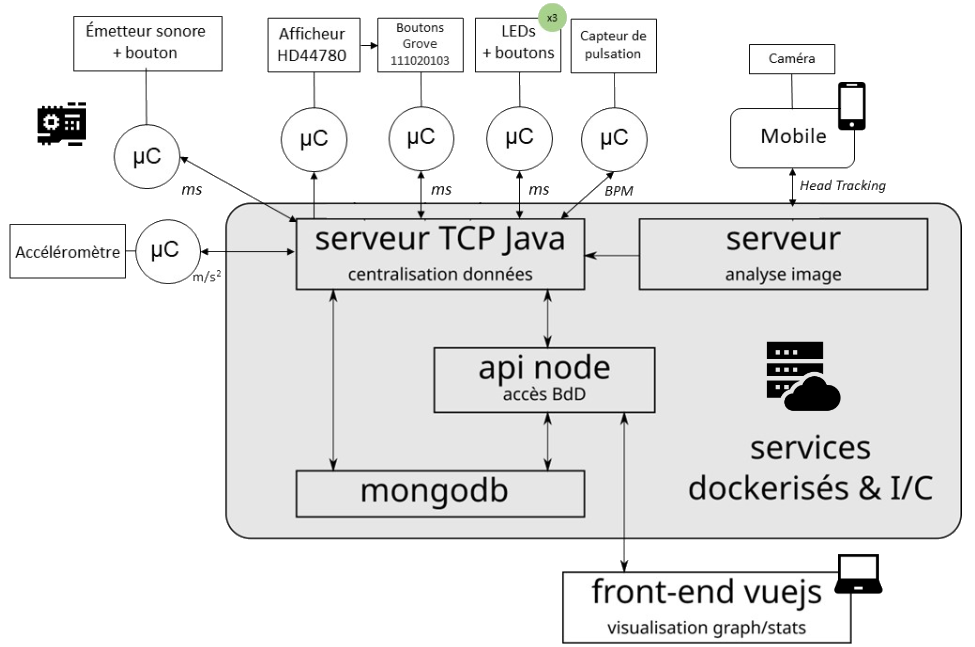
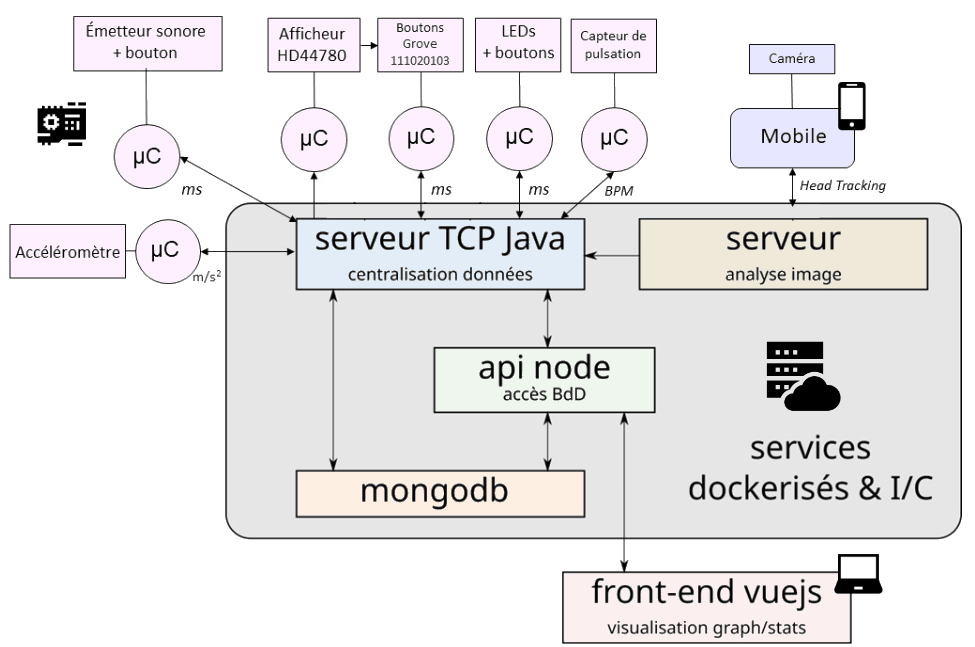
doc: update data

Changed region(s): [[0.5846, 0.9892, 0.8615, 1.0], [0.3692, 0.7419, 0.5231, 0.8037], [0.5538, 0.0, 0.5846, 0.0618]]

diff --git a/portfolio/src/variables_fr.js b/portfolio/src/variables_fr.js
@@ -2,6 +2,7 @@ const sae_101_102_partie_de_jeu = require("../files/sae_101_102/partie_de_jeu.pn
 const sae_s4_mcd = require("../files/sae_stage_s4/MCD.png");
 const sae_s4_principe_selection_apres = require("../files/sae_stage_s4/principe_selection_apres.png");
 const archi_sae = require("../files/sae_s5/archi_sae.png");
+const graphs_frontend = require("../files/sae_s5/graphs_frontend.png");
 
 
 /* ***************************************************************** common ***************************************************************** */
@@ -84,8 +85,9 @@ const technos = {
     // Database & Query Languages
     graphql: { name: "GraphQL", class: "bg-info" },
     minio: { name: "Minio", class: "bg-info" },
+    mongo: { name: "MongoDB", class: "bg-info" },
     postgresql: { name: "PostgreSQL", class: "bg-info" },
-    sequelize: {name: "Sequelize", class: "bg-info" },
+    sequelize: { name: "Sequelize", class: "bg-info" },
     sql: { name: "SQL", class: "bg-info" },
     hasura: { name: "Hasura", class: "bg-info" },
 
@@ -137,7 +139,7 @@ const projects = {
         title: `Stage (2023)`,
         category: categories.professional,
         instructions: {
-            title: `Consignes`,
+            title: `Présentation`,
             text: `Au cours de ma deuxième année en BUT Informatique, j'ai effectué un stage de trois mois (avril - juin 2023) au sein de <span style='color:red;'><strong>Natural Solutions</strong></span>, une entreprise du secteur numérique basée à Marseille.\n
             Chaque mois, l'entreprise doit établir des devis et des factures pour ses clients. Pour simplifier ce processus, un stagiaire avait été recruté en 2021 pour mettre en place l’Outil Facturation, réalisé en <span style='color:blue'><strong>${technos.js.name}</strong></span>, <span style='color:blue'><strong>${technos.node_js.name}</strong></span> et <span style='color:blue'><strong>${technos.react_js.name}</strong></span>.\n
             Ma mission était de corriger les problèmes existants, d'améliorer les fonctionnalités déjà en place et d'en ajouter de nouvelles. Parmi les tâches qui m'ont été confiées, figuraient la mise en place de la base de données (BDD), la modification du principe de sélection des projets et la génération de documents.\n
@@ -150,68 +152,82 @@ const projects = {
         },
         implementation: {
             title: `Mise en œuvre`,
-            text: `<h4 style='color:black;'><strong>Base de données</strong></h4>
+            section_1: `<h4 style='color:black;'><strong>Base de données</strong></h4>
             Avant mon arrivée, les données de l'Outil Facturation étaient conservées dans un <span style='color:blue'><strong>fichier JSON</strong></span>. Pour les migrer vers une base de données, j'ai réalisé les étapes suivantes :
-            <ul><li>création d'un MCD (Modèle Conceptuel de Données) ;</li><li>utilisation du SGBD (Système de Gestion de Bases de Données) <span style='color:red;'><strong>${technos.postgresql.name}</strong></span> ;</li><li>emploi de l'ORM <span style='color:red;'><strong>${technos.sequelize.name}</strong></span> pour simplifier l'interaction avec la base de données ;</li><li>connexion de la base de données avec le backend via des variables d'environnement. Lors de cette étape, j'ai dû adapter l'intégralité du code de l'application ;</li><li>enrichissement de la base de données en développant une fonction pour <span style='color:green;'><strong>insérer les données</strong></span>, élément par élément, à partir du fichier JSON où elles étaient précédemment stockées.</li></ul>
-            <h4 style='color:black;'><strong>Modification du principe de sélection des projets</strong></h4>
-            Lorsque l'utilisateur souhaitait modifier un projet, il devait connaître son nom exact. Il a été décidé que le nouveau système de recherche de projet utiliserait <span style='color:blue'><strong>deux listes déroulantes</strong></span>, permettant de sélectionner ou désélectionner chaque projet. L'une des listes afficherait tous les projets développés pour RENECO (le principal client de Natural Solutions), tandis que l'autre inclurait tous les autres projets.\n
-            Pour accomplir cette tâche, j’ai dû :
-            <ul><li><span style='color:red'><strong>interroger une API externe</strong></span> pour obtenir la liste complète des projets ;</li><li>identifier si chaque projet était développé pour RENECO ou non ;</li><li>ajuster l'interface graphique en conséquence.</li></ul>
-            <h4 style='color:black;'><strong>Génération de documents</strong></h4>
-            Cette mission consistait à créer un rapport sur les activités de support réalisées pendant une période donnée. Ces activités concernent les tâches effectuées par l'équipe de développement après la livraison du produit (service après-vente).\n
-            Pour gérer ces activités, Natural Solutions utilise <span style='color:blue;'><strong>Zendesk</strong></span>, une plateforme de gestion de la relation client. Il était donc crucial d'interroger l'API de Zendesk pour générer le rapport.\n
-            J'ai d'abord établi une connexion avec l'API pour obtenir les données pertinentes, que j'ai ensuite sélectionnées, triées par ordre chronologique et formatées pour le rapport.\n
-            Le code permettant le téléchargement du fichier était déjà présent, mais j'ai dû l'adapter pour générer correctement les documents. En complément, j'ai créé un <span style='color:green'><strong>modèle Word</strong></span> afin de structurer et d'organiser automatiquement le contenu du rapport lors de sa génération.`,
-            images: [
+            <ul><li>création d'un MCD (Modèle Conceptuel de Données) ;</li><li>utilisation du SGBD (Système de Gestion de Bases de Données) <span style='color:red;'><strong>${technos.postgresql.name}</strong></span> ;</li><li>emploi de l'ORM <span style='color:red;'><strong>${technos.sequelize.name}</strong></span> pour simplifier l'interaction avec la base de données ;</li><li>connexion de la base de données avec le backend via des variables d'environnement. Lors de cette étape, j'ai dû adapter l'intégralité du code de l'application ;</li><li>enrichissement de la base de données en développant une fonction pour <span style='color:green;'><strong>insérer les données</strong></span>, élément par élément, à partir du fichier JSON où elles étaient précédemment stockées.</li></ul>`,
+            images_1: [
                 {
                     path: sae_s4_mcd,
                     legend: `Figure 1 : MCD de l'application`
-                }, {
-                    path: sae_s4_principe_selection_apres,
-                    legend: `Figure 2 : MCD de l'application`
                 }
-            ]
+            ],
+            section_2: `\n<h4 style='color:black;'><strong>Modification du principe de sélection des projets</strong></h4>
+            Lorsque l'utilisateur souhaitait modifier un projet, il devait connaître son nom exact. Il a été décidé que le nouveau système de recherche de projet utiliserait <span style='color:blue'><strong>deux listes déroulantes</strong></span>, permettant de sélectionner ou désélectionner chaque projet. L'une des listes afficherait tous les projets développés pour RENECO (le principal client de Natural Solutions), tandis que l'autre inclurait tous les autres projets.\n
+            Pour accomplir cette tâche, j’ai dû :
+            <ul><li><span style='color:red'><strong>interroger une API externe</strong></span> pour obtenir la liste complète des projets ;</li><li>identifier si chaque projet était développé pour RENECO ou non ;</li><li>ajuster l'interface graphique en conséquence.</li></ul>`,
+            images_2: [
+                {
+                    path: sae_s4_principe_selection_apres,
+                    legend: `Figure 2 : Principe de sélection des projets`
+                }
+            ],
+            section_3: `\n<h4 style='color:black;'><strong>Génération de documents</strong></h4>
+            Cette mission consistait à créer un rapport sur les activités de support réalisées pendant une période donnée. Ces activités concernent les tâches effectuées par l'équipe de développement après la livraison du produit (service après-vente).\n
+            Pour gérer ces activités, Natural Solutions utilise <span style='color:blue;'><strong>Zendesk</strong></span>, une plateforme de gestion de la relation client. Il était donc crucial d'interroger l'API de Zendesk pour générer le rapport.\n
+            J'ai d'abord établi une connexion avec l'API pour obtenir les données pertinentes, que j'ai ensuite sélectionnées, triées par ordre chronologique et formatées pour le rapport.\n
+            Le code permettant le téléchargement du fichier était déjà présent, mais j'ai dû l'adapter pour générer correctement les documents. En complément, j'ai créé un <span style='color:green'><strong>modèle Word</strong></span> afin de structurer et d'organiser automatiquement le contenu du rapport lors de sa génération.`
         },
         result: {
             title: `Résultat de la SAÉ`,
             text: `J'ai beaucoup aimé cette première expérience professionnelle, c'est en grande partie grâce à mes collègues qui se sont montrés très attentifs.\n
             De plus, j'ai pu m'améliorer en <span style='color:red'><strong>gestion de projet</strong></span> grâce à l'utilisation quotidienne de la méthodologie SCRUM. J'ai aussi développé ma capacité à me documenter et à chercher des informations par moi-même ainsi que ma capacité à utiliser des outils tels que GitLab.\n
             Vous pouvez consulter le diaporama de ma soutenance <a href='https://docs.google.com/presentation/d/1uueQqS5IAyxeuxPOwv-2YE4rRnxuOs72wY5auPL-VPI/edit?usp=sharing' target='_blank'>ci-joint</a>.`,
-            files: {
-                file_1: {
-
-                },
-                file_2: {
-
-                }
-            }
         },
         technologies: [technos.js, technos.node_js, technos.react_js, technos.postgresql, technos.gitlab]
     },
     sae_s5: {
-        title: `Présentation de la SAÉ`,
+        title: `SAÉ 501-601`,
         category: categories.academic,
         instructions: {
             title: `Objectif`,
-            text: `Cette SAÉ, réalisée par <span style='color:red;'><strong>cinq étudiants</strong></span> en troisième année de BUT Informatique, a pour objectif de développer une application multi-architecture en utilisant des micro-contrôleurs et des objets connectés pour collecter des données, les traiter et les visualiser.\nMon groupe et moi avons choisi de créer une application de tests de réflexe destinée à des scientifiques.`
+            text: `Dans le cadre de ma troisième année de BUT informatique, j'ai travaillé sur ce projet en collaboration avec quatre autres étudiants. Notre mission consistait à concevoir une <span style='color: red'><strong>application multi-architecture</strong></span> intégrant des <span style='color:green'><strong>microcontrôleurs</strong></span> et des <span style='color:green'><strong>objets connectés</strong></span>, afin de collecter, traiter et visualiser des données.\n
+            Nous avions la liberté de définir une situation d'application pour mettre en œuvre ces consignes, et notre équipe a opté pour le développement d'une application destinée aux scientifiques, permettant de réaliser des tests de réflexe.`
         },
         architecture: {
-            title: `Architecture`,
-            text: `L'application comprend plusieurs infrastructures complexes que nous devons faire communiquer entre elles.\n\nNous disposons d’une <span style='color:blue;'><strong>application mobile</strong></span> (codée pour les Android dans notre cas) celle-ci a été conçue pour prendre des vidéos et les envoyer à un <span style='color:blue;'><strong>serveur d'analyse</strong></span>. Ce serveur comme son nom l'indique a pour but d’analyser les informations reçues. Une fois le traitement effectué il envoie les résultats à un <span style='color:blue;'><strong>serveur de centralisation</strong></span> des données codé en java. Ce serveur reçoit également des données de la part des microcontrôleurs. Il communique avec une <span style='color:blue;'><strong>API</strong></span> réalisée en Node.js afin de stocker les données reçues dans une <span style='color:blue;'><strong>base de données MongoDB</strong></span>. Le serveur de centralisation est tout de même capable de communiquer lui-même avec la BDD sans passer au travers de l’API. Pour finir les données seront affichées sous forme de statistiques dans une page Web (<span style='color:blue;'><strong>frontend</strong></span>) réalisée en Vue.js.\n\nSur la figure ci-dessous est représentée l'architecture de l'application.`,
+            title: `Architecture du projet`,
+            text: `L’architecture du projet, imposée par nos professeurs, suivait des consignes précises. Nous devions concevoir une <span style='color: #d4d6ff'><strong>application mobile</strong></span> capable de transmettre des informations (son, vidéos ou images) à un <span style='color: #e7dec7'><strong>serveur d’analyse</strong></span>. Ce dernier avait pour rôle de traiter ces données et de transmettre les résultats à un <span style='color: #c5dcf1'><strong>serveur de centralisation</strong></span>, considéré comme le "noyau" de l’application. Développé impérativement en ${technos.java.name}, ce serveur devait enregistrer les données issues du serveur d’analyse dans une <span style='color: #fce5cd'><strong>base de données</strong></span> ${technos.mongo.name}.\n
+            Comme illustré dans le schéma ci-dessous, ce serveur était également chargé de récupérer et de sauvegarder les résultats envoyés par les <span style='color: #fdd9ff'><strong>microcontrôleurs</strong></span>. Par ailleurs, une <span style='color: #d9ead3'><strong>API</strong></span> en ${technos.node_js.name} devait être créée pour assurer les échanges entre le serveur de centralisation, la base de données, et une interface <span style='color: #f8e0e0'><strong>frontend</strong></span> obligatoirement réalisée en ${technos.vue_js.name}, destinée à la visualisation des données.`,
             images: [
                 {
                     path: archi_sae,
-                    legend: `Légende : architecture de la SAÉ`
+                    legend: `Figure 1 : architecture de la SAÉ`
                 },
             ]
         },
         organization_of_work: {
-            title: `Processus de développement`,
-            text: `Pour développer cette application nous avons utilisé <span style='color:green;'><strong>GitLab</strong></span> et <span style='color:green;'><strong>Trello</strong></span> pour gérer le versioning et la planification des tâches.\n\nEn ce qui concerne le déploiement, une grande partie de l'application est déployée en conteneurs <span style='color:green;'><strong>Docker</strong></span>.\n\nLes principaux langages que j'ai pu manipuler sont les suivants :\n<ul><li>Arduino ;</li><li>Java ;</li><li>JavaScript ;</li><li>Kotlin ;</li><li>YAML ;</li></ul>`
+            title: `Réalisation de la SAÉ`,
+            section_1: `Tout au long du cycle de vie du projet, nous avons utilisé <span style='color:green;'><strong>GitLab</strong></span> et <span style='color:green;'><strong>Trello</strong></span> afin de faciliter le versioning et la planification des tâches.\n
+                Nous nous sommes rapidemment répartis les tâches en tenant compte des préférences de chacun et en veillant à ce que chaque membre puisse contribuer à l'ensemble du projet. C'est ainsi que j'ai entammé mon travail avec le développement de l’API et le frontend.`,
+            section_2: `\n<h4 style='color:black;'><strong>Réalisation de l'API et du frontend</strong></h4>
+                Le frontend devant afficher les informations de la base de données sous forme de graphiques et de statistiques, j’ai commencé par identifier les données pertinentes à présenter, puis imaginé différentes façons de les visualiser.\n
+                J’ai d’abord travaillé sur l’API en utilisant la dépendance "express" de ${technos.node_js.name}, qui simplifie la création d’un serveur. Une fois celui-ci en place, j’ai établi une connexion avec la base de données ${technos.mongo.name}, créée par un camarade, afin d’en extraire les informations nécessaires. Avant de passer au frontend, j’ai réalisé des tests unitaires pour m’assurer que les méthodes de l’API fonctionnaient correctement.\n
+                Pour le frontend, j'ai commencé par assurer la connexion avec l’API puis j'ai opté pour la bibliothèque "Vue chartjs" qui permet de faire des graphiques dynamiques.\n
+                Avant de passer au développement du serveur d'analyse, j'ai permit le déploiement de l'API avec ${technos.docker.name}.`,
+            images: [
+                {
+                    path: graphs_frontend,
+                    legend: `Figure 2 : Graphiques du frontend (données de tests)`
+                },
+            ],
+            section_3: `\n<h4 style='color:black;'><strong>Développement du serveur d'analyse</strong></h4>
+                Cette étape a été sans doute l’une des plus complexes, car elle a exigé une longue phase de recherche et de nombreuses reprises de l'application mobile, initialement prévue pour manipuler des vidéos.\n
+                La principale difficulté résidait dans la recherche d’une bibliothèque capable de traiter un média. Dans un premier temps, nous avons tenté de travailler avec des vidéos, mais cette approche étant trop compliquée pour le temps imparti, nous avons opté pour l'utilisation de fichiers SVG pour analyser exclusivement des images. Cette décision a entrainé la modification de l'application mobile.\n
+                Enfin, nous avons établi la connexion entre l’application mobile et le serveur d’analyse en réalisant, pour chacun, plusieurs corrections au cours du temps. Pour cette partie aussi, il a été essentiel de réaliser des tests unitaires.`
         },
         result: {
             title: `Résultat de la SAÉ`,
-            text: `Actuellement, ce projet est en cours de réalisation. Cependant, vous trouverez <a href="https://gitlab.iut-bm.univ-fcomte.fr/ggodailf/sae_s5" target='_blank'>ci-joint</a> le dépôt GitLab du projet.`
+            text: `Cette SAÉ s'est révélée extrêmement enrichissante. J'ai pu développer de nombreuses compétences, humaines et professionnelles, ainsi que comprendre l'importance de la communication au sein d'une équipe.\n
+            Vous pouvez consulter notre soutenance <a href='https://docs.google.com/presentation/d/1ciTwJQT0wF97OlqsJSNzQmrdxO6tPPnuQ1vWaAyG5aA/edit#slide=id.g230ccc5832e_0_0' target='blank'>ici</a> et notre dépôt Git <a href='#'>ici</a>.`
         },
         technologies: [technos.arduino, technos.java, technos.js, technos.kotlin, technos.docker, technos.gitlab]
     },
@@ -265,7 +281,7 @@ module.exports = {
     categoriesLabel: categoriesLabel,
     technosLabel: technosLabel,
     confirmFilters: confirmFilters,
-    resetFilters : resetFilters,
+    resetFilters: resetFilters,
     categories: categories,
     technos: technos,
     projects: projects,
